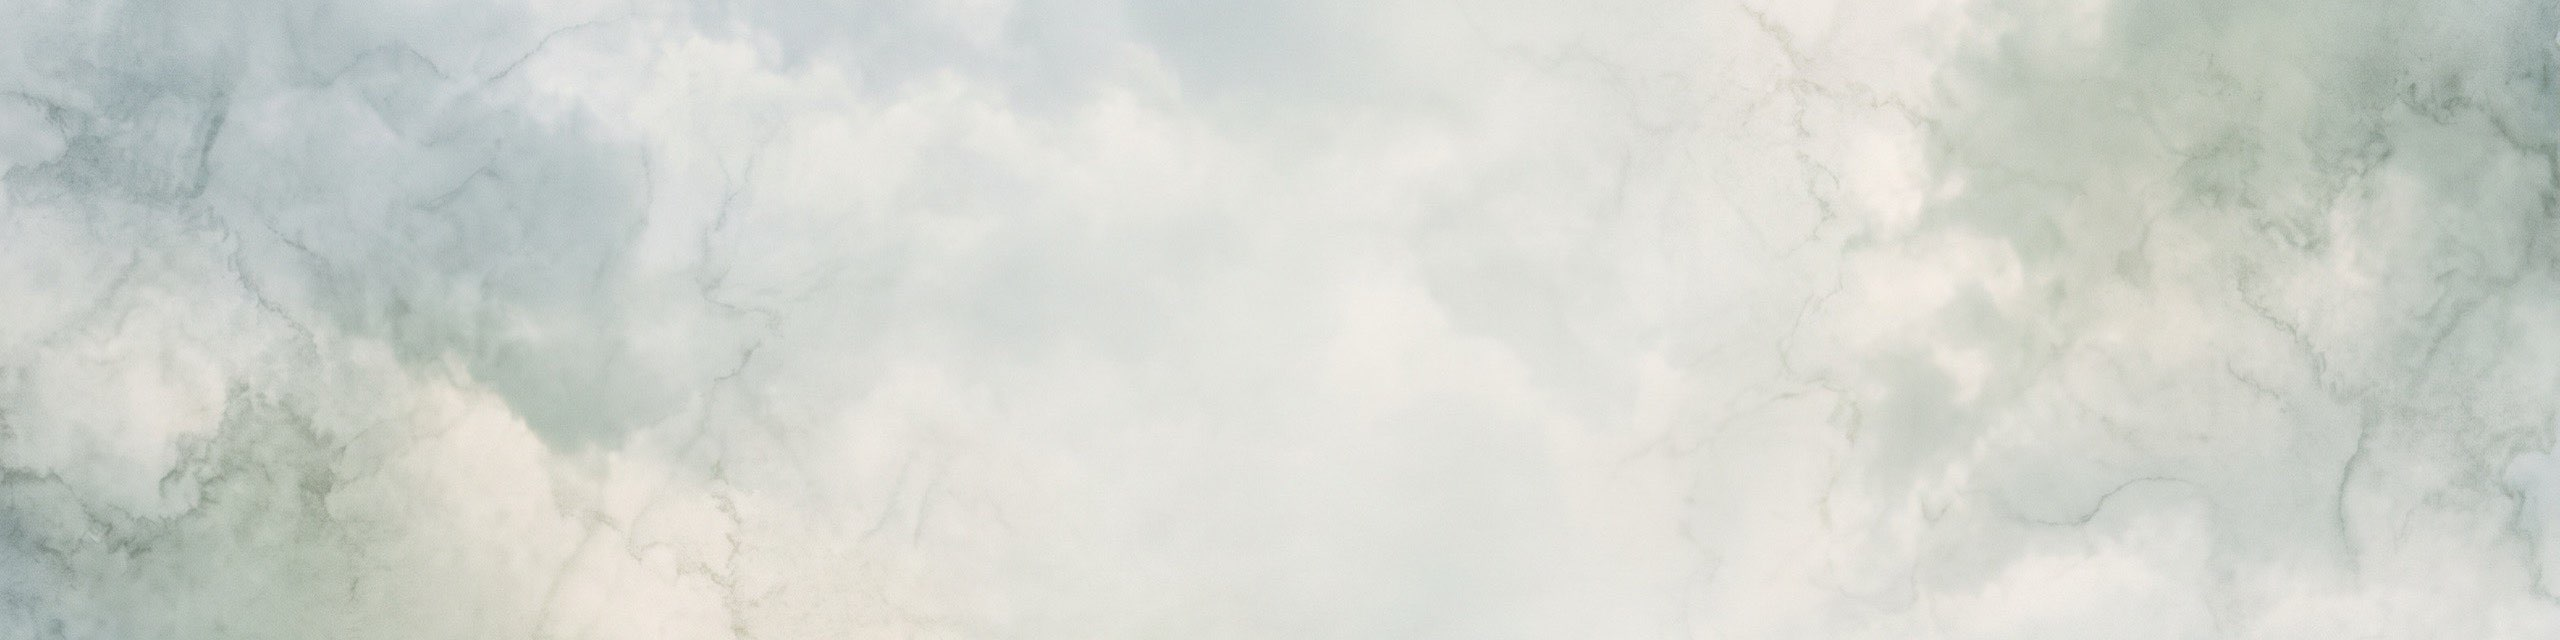
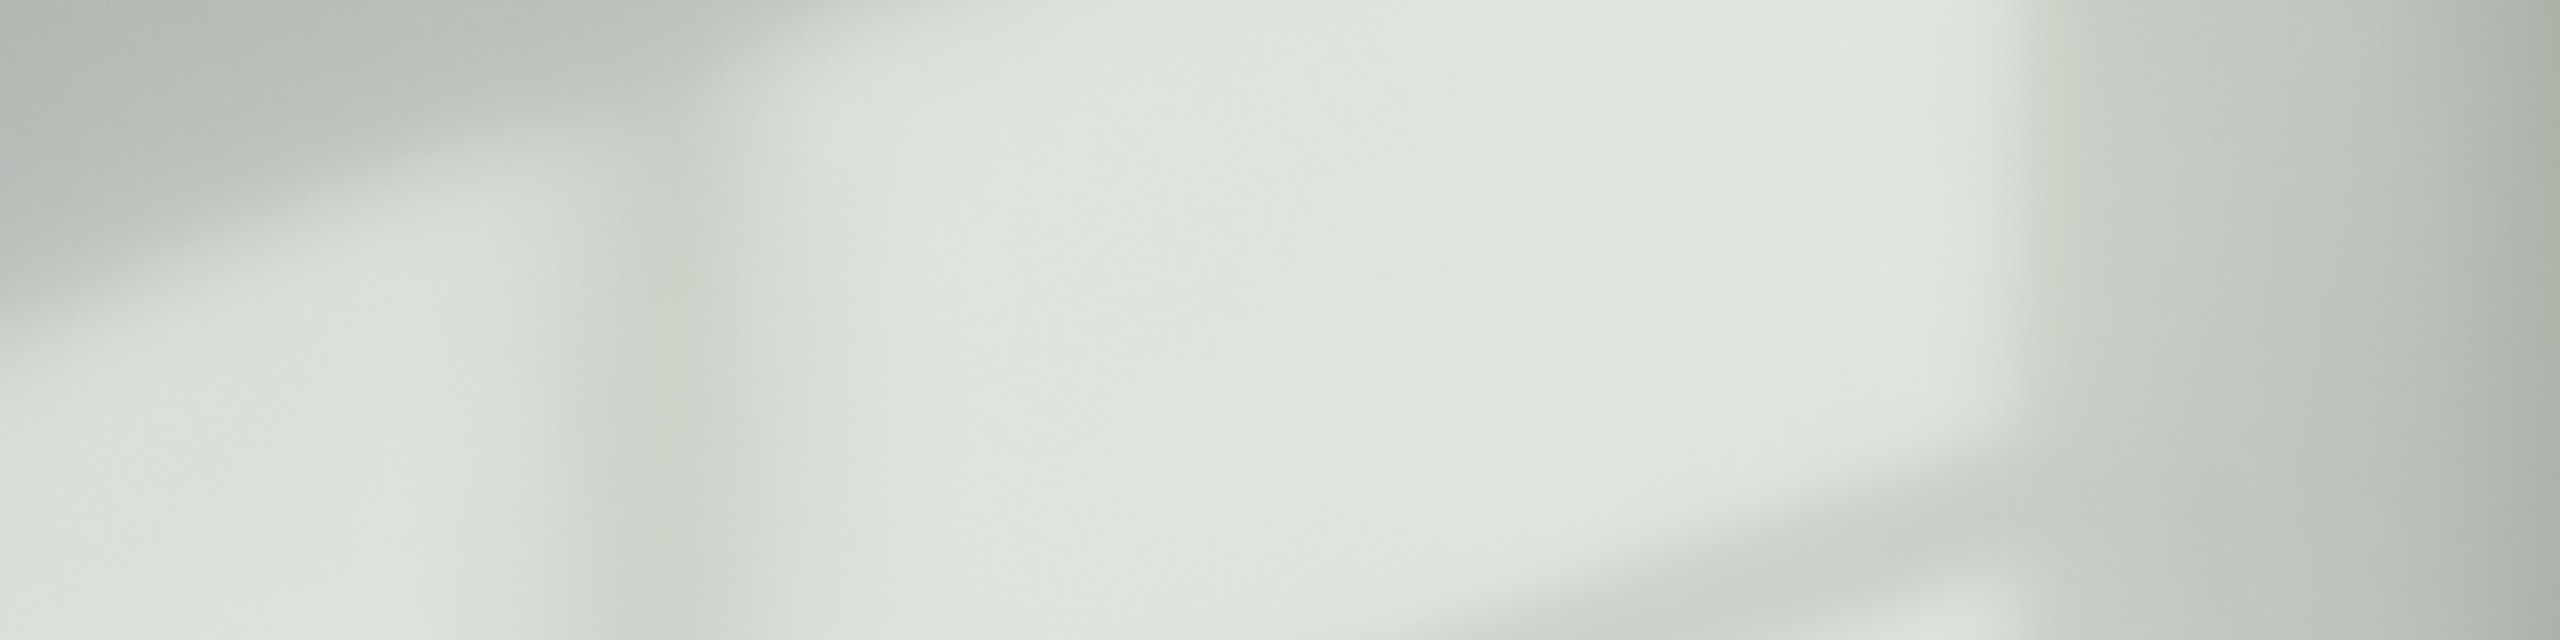
Cambiar el fondo de las manchetas por una imagen mas simple
El cliente pide un fondo mas sencillo para las bandas de titulo de
articulos/, sobre/ y contacto/. Entra una imagen generada con IA: gris
verdoso palido con franjas diagonales de luz desenfocadas.

Se SOBRESCRIBE img/fondo-paginas.jpg en vez de estrenar nombre. El
nombre describe el papel -el fondo de las paginas- y no el dibujo, asi
que sigue siendo exacto; el CSS no se toca y no queda ningun archivo
huerfano. El precio: un grep del nombre ya no dice que imagen hay dentro.

2560x640, 45,9 KB (antes 130,7: un 65% menos). Preparada con sips,
recorte ANTES de reducir; el original era 3168x1344, asi que solo hubo
que elegir la franja, con --cropOffset porque sips -c recorta centrado.

El desplazamiento 240 esta medido: deja el tercio central -donde cae el
titulo- en 0,712 de luminancia frente a 0,61 de las demas franjas.
Calidad 65: el bloqueo 8x8 es de medio nivel sobre 255 en todas las
calidades probadas, y 65 es el codo de la curva.

Contraste del h1, muestreado sobre el recorte ya pintado:

  375    768    901   1440   1920
16,67  16,67  12,69  12,69  12,69

A 375 y 768 NO hay imagen: el fondo se declara en min-width 901, asi
que ahi el titulo cae sobre blanco. Con titulos forzados de 1200 px no
baja de 10,64, frente a 6,61 de la imagen anterior.

No se toca la portada, que usa un <video> con poster propio.

diff --git a/css/styles.css b/css/styles.css
@@ -1234,30 +1234,42 @@ body:has(.portada--video) .cabecera--con-linea {
    titular se quedaba en 1,68:1. Con el titulo centrado cae sobre la zona clara
    del centro y no hace falta velo ninguno.
 
-   ⚠ LA IMAGEN CAMBIO: era `fondo-cabecera.jpg` y ahora es `fondo-paginas.jpg`,
-   recortada a 4:1 exacto (2560x640) para esta banda. Misma familia visual que
-   el veteado de la portada, pero sin libro ni balanza.
+   ⚠ EL ARCHIVO SE LLAMA IGUAL DESDE HACE DOS IMAGENES, ASI QUE EL NOMBRE NO
+   DICE QUE HAY DENTRO. Hoy `fondo-paginas.jpg` es un gris verdoso palido con
+   franjas diagonales de luz desenfocadas, generado con IA; antes contenia el
+   recorte del veteado de la portada, y antes de eso la banda usaba otro archivo,
+   `fondo-cabecera.jpg`, que se borro al quedarse sin uso.
 
-   `center` NO SE TOCO, y no por inercia: se midieron cinco posiciones
-   verticales y las cinco dan entre 11,6 y 12,4:1, porque el titulo cae sobre el
-   centro claro pase lo que pase. Mover la Y no mejora nada.
+   Se sobrescribe en vez de estrenar nombre para no dejar huerfano el anterior
+   —este repositorio ya ha pagado dos limpiezas por eso— y porque el nombre
+   describe el PAPEL, no el dibujo. Esta razonado en CLAUDE.md, con el comando
+   de sips y el porque del desplazamiento del recorte.
 
-   Contraste del h1 (--tinta sobre el pixel mas oscuro bajo su caja):
+   `center` NO SE TOCO: el recorte ya se eligio para que la zona central fuera
+   la mas limpia, asi que mover la Y solo puede empeorarlo.
 
-     ancho de ventana   1280     1440
-     peor ratio        11,84    11,93
+   Contraste del h1 (--tinta sobre el pixel mas oscuro bajo su caja), medido
+   replicando `cover` en un canvas con la geometria real del elemento:
 
-   GUARDA, y con la imagen nueva es mucho mas holgada que antes. Medido a 1440
-   forzando titulos cada vez mas anchos:
+     ancho de ventana   375    768    901   1440   1920
+     peor ratio       16,67  16,67  12,69  12,69  12,69
+
+   ⚠ A 375 Y 768 NO HAY IMAGEN —la media query de abajo empieza en 901— asi que
+   esos 16,67 son el h1 sobre el blanco de la pagina, no sobre la foto. Y de 901
+   para arriba el numero no se mueve porque `cover` escala por el ancho en toda
+   esa franja: lo que cambia es cuanta imagen se ve a los lados, no lo que queda
+   detras del texto.
+
+   GUARDA. Medido forzando titulos cada vez mas anchos:
 
      titulo    160    450    600    800   1000   1200 px
-     nuevo   11,81  10,79   8,15   8,15   6,61   6,61
-     viejo   14,64  12,88  12,88  12,00   5,56   2,45  <- incumplia a 1200
+     hoy     12,69  12,57  12,34  11,42  10,64  10,64
+     antes   11,81  10,79   8,15   8,15   6,61   6,61
 
-   O sea que el corte de 450 px que documentaba la imagen anterior ya no
-   aplica: esta no baja de 6,61 ni con un titulo de 1200 px, que es mas ancho
-   que cualquier rotulo imaginable. Aun asi, si algun dia se cambia la imagen
-   hay que volver a medir esta tabla. */
+   No baja de 10,64 ni con un titulo de 1200 px, mas ancho que cualquier rotulo
+   imaginable, y pierde solo 2 puntos de extremo a extremo donde la anterior
+   perdia 5. Aun asi, si algun dia se cambia la imagen hay que volver a medir
+   esta tabla: el numero sale de muestrear, no de mirar. */
 
 @media (min-width: 901px) {
   .mancheta {

diff --git a/CLAUDE.md b/CLAUDE.md
@@ -3400,18 +3400,95 @@ fondo y **sin velo**. Abre las tres páginas de sección —`articulos/`, `sobre
 el título se queda en la rejilla de 1200 gracias al `.contenedor` que lleva
 dentro.
 
-> ⚠ **LA IMAGEN CAMBIÓ: ERA `img/fondo-cabecera.jpg`.** La nueva está recortada
-> a **4:1 exacto (2560 × 640)** para esta banda, frente al 4,03 de la anterior,
-> y es el mismo veteado de la portada **sin libro ni balanza**.
+> ⚠ **EL ARCHIVO SE LLAMA IGUAL PERO LA FOTO ES OTRA, Y ESA ES LA TRAMPA DE
+> ESTE CAMBIO.** `img/fondo-paginas.jpg` se **sobrescribió** con una imagen nueva
+> generada con IA: un gris verdoso pálido con franjas diagonales de luz
+> desenfocadas, mucho más simple que el veteado anterior.
 >
-> ✅ **`fondo-cabecera.jpg` se quedó sin uso y YA SE HA BORRADO** en la limpieza
-> del lote. Aquí decía «NO se ha borrado». Esta banda era su único portador, y
-> hoy el nombre solo aparece en prosa: en el comentario de `styles.css` que
-> explica el cambio y en la tabla de contraste de más abajo.
+> **Se sobrescribe en vez de añadir un nombre nuevo, y es deliberado:**
+>
+> | | Sobrescribir | Nombre nuevo |
+> |---|---|---|
+> | CSS | no se toca | hay que editarlo |
+> | Archivos huérfanos | **ninguno** | uno más |
+> | Qué enseña el diff | que la imagen cambió | que hay dos imágenes |
+>
+> El nombre describe **el papel** —«el fondo de las páginas»— y no el dibujo, así
+> que sigue siendo exacto. Y el repositorio ya ha pagado dos veces el precio de
+> acumular imágenes sin uso: `fondo-cabecera.jpg` y `juanconteramiranda.jpeg`
+> necesitaron una limpieza dedicada. Añadir una tercera por no sobrescribir
+> repite justo el error que esa limpieza arregló.
+>
+> **Consecuencia que hay que tener presente:** un `grep` del nombre no dice qué
+> imagen hay. Para saberlo hay que mirar el archivo o esta sección.
+>
+> **Antes de esta, el archivo contuvo el recorte del veteado de la portada**, y
+> antes de eso la banda usaba `img/fondo-cabecera.jpg`, que se borró al quedarse
+> sin uso.
+
+> **Cómo se preparó, y el orden importa.** El original es
+> `Gemini_Generated_Image_vvrrjvvrrjvvrrjv.jpeg`, **3168 × 1344** y 1,6 MB. Para
+> 4:1 usando el ancho entero hace falta una franja de 792 px de alto, y **cuál**
+> de las muchas posibles se elige es la única decisión de diseño que hay aquí:
 >
 > ```sh
-> grep -rn 'fondo-cabecera' --include='*.css' --include='*.html' .
+> # recorte ANTES de reducir, con desplazamiento: la franja y=240..1032
+> sips -c 792 3168 --cropOffset 240 0 original.jpeg --out base.jpg
+> sips -Z 2560 -s format jpeg -s formatOptions 65 base.jpg --out img/fondo-paginas.jpg
 > ```
+>
+> ⚠ **`--cropOffset` no es opcional.** `sips -c` recorta **centrado**, y el
+> recorte centrado (y=276) no es el que se quiere. Hace falta elegir la Y.
+>
+> **El 240 está medido, no elegido a ojo.** El original tiene una sombra fuerte
+> arriba a la izquierda y una banda oscura en el borde derecho; entre medias hay
+> una meseta clara. Barriendo los desplazamientos posibles y midiendo la
+> luminancia del **tercio central**, que es donde cae el título:
+>
+> | Desplazamiento | Tercio izquierdo | **Tercio central** | Tercio derecho |
+> |---|---|---|---|
+> | **240** | 0,488 | **0,712** | 0,427 |
+> | 384 | 0,541 | 0,621 | 0,427 |
+> | 480 | 0,615 | 0,612 | 0,426 |
+> | 528 | 0,614 | 0,607 | 0,426 |
+>
+> El 240 deja el centro **mucho más claro** que cualquier otro —0,712 contra
+> 0,61— al precio de un tercio izquierdo algo más oscuro, que es donde no hay
+> texto. Los demás se parecen entre sí porque a partir de 384 la meseta ya ha
+> quedado arriba del recorte.
+
+> **La calidad 65 también está medida, y la métrica obvia engaña.** En una imagen
+> tan lisa el riesgo no es perder detalle sino el **bloqueo 8 × 8** del JPEG, que
+> en una superficie plana se ve como bandas. Contar «saltos bruscos» da el
+> resultado al revés —sube con la calidad, porque conserva el grano del
+> original—; lo que sirve es comparar el salto en los bordes de bloque contra el
+> de dentro:
+>
+> | Calidad | Peso | Bloqueo a 2560 (nativo) | Salto absoluto | Ya escalada a 1440 |
+> |---|---|---|---|---|
+> | 55 | 35,6 KB | 7,08× | 0,38/255 | 0,15/255 |
+> | 60 | 36,0 KB | 6,46× | 0,39/255 | 0,16/255 |
+> | **65** | **45,9 KB** | **3,93×** | **0,48/255** | **0,24/255** |
+> | 70 | 64,8 KB | 2,89× | 0,54/255 | 0,32/255 |
+> | 75 | 74,0 KB | 2,23× | 0,62/255 | 0,39/255 |
+>
+> ⚠ **El ratio de bloqueo asusta más de lo que debe**: el salto absoluto es de
+> medio nivel sobre 255 en todos los casos, o sea invisible. Lo que lo infla es
+> que el gradiente *dentro* del bloque es casi cero, no que el borde se vea.
+>
+> Y **al escalar se suaviza**: a 1440 la imagen se dibuja al 0,5625 y promedia
+> los bloques. Medida la diferencia entre q55 y q75 ya escaladas: **máximo 5/255**,
+> media 0,39/255. O sea que cualquiera valdría; 65 se elige porque es el codo de
+> la curva y porque **en pantalla densa no hay reducción que suavice** —ahí los
+> 2560 px se dibujan casi 1:1—.
+>
+> **Pesa 45,9 KB frente a los 130,7 de la imagen anterior**, un 65 % menos.
+
+> ⚠ **EL ORIGINAL NO ESTÁ EN EL REPOSITORIO, y sin él no se puede rehacer el
+> recorte.** Es el único insumo del sitio del que no se guarda la fuente —el logo
+> sí la tiene, en `img/logo_elderechoescrito.jpeg`—. Mientras no se guarde, lo
+> único que permite reproducir esta imagen es el comando de arriba **más el
+> archivo original**, que vive fuera del proyecto.
 
 > ⚠ **SE DESCARTÓ USAR EL FONDO DE LA PORTADA TAL CUAL, y conviene saber por
 > qué antes de volver a intentarlo.** El de la portada no es una imagen de CSS:
@@ -3434,17 +3511,30 @@ falta un velo blanco al 45 % para salvarlo, y aun así lavaba la imagen.
 Con el título **centrado**, cae sobre la franja clara del medio y no hace falta
 velo ninguno. El velo se retiró: protegía a un texto que ya no está ahí.
 
-Medido sobre la imagen de hoy, el píxel más oscuro bajo la caja del `h1`:
+Medido sobre la imagen de hoy, el píxel más oscuro bajo la caja del `h1`,
+muestreando el recorte **ya pintado** —se replica `cover` en un `<canvas>` con la
+geometría real del elemento y se leen los píxeles de la caja del título—:
 
-| Ancho de ventana | 1280 | 1440 |
-|---|---|---|
-| Peor contraste | **11,84:1** | **11,93:1** |
+| Ancho de ventana | 375 | 768 | **901** | **1440** | 1920 |
+|---|---|---|---|---|---|
+| ¿Hay imagen? | **no** | **no** | sí | sí | sí |
+| Peor contraste | 16,67:1 | 16,67:1 | **12,69:1** | **12,69:1** | 12,69:1 |
 
-> **`background-position` sigue en `center`, y no por inercia.** Se midieron
-> cinco posiciones verticales —0, 25, 50, 75 y 100 %— y las cinco dan entre
-> **11,6 y 12,4:1**, porque el título cae sobre el centro claro pase lo que
-> pase. Mover la Y no mejora nada, así que el cambio se queda en el nombre del
-> archivo.
+> ⚠ **A 768 Y 375 NO HAY IMAGEN, Y ESO SORPRENDE AL MEDIR.** El fondo se declara
+> dentro de `@media (min-width: 901px)` —está razonado en `styles.css`: por
+> debajo no se pide el archivo y además `cover` recortaría una tira inútil—, así
+> que ahí el `h1` cae sobre el blanco de la página y da **16,67:1**. Quien mida
+> el contraste en móvil no está midiendo esta imagen.
+>
+> **Por encima de 901 el número no se mueve**, y tiene explicación: `cover`
+> escala por el ancho en toda esa franja, así que el título siempre cae sobre el
+> mismo punto del archivo. Lo que cambia con la ventana es cuánta imagen se ve a
+> los lados, no lo que hay detrás del texto.
+
+> **`background-position` sigue en `center`.** Con la imagen anterior se midieron
+> cinco posiciones verticales y las cinco daban entre 11,6 y 12,4:1; con esta, el
+> recorte ya se eligió para que el centro fuera la zona más limpia, así que mover
+> la Y solo puede empeorarlo.
 
 Una media de luminancia habría dicho las dos veces que no hacía falta velo,
 porque la imagen es clara *de media*. **Lo que sirve es muestrear el recorte
@@ -3456,20 +3546,26 @@ con la proporción de la caja.
 > 600 y 2,86 a 800, que ya no cumplía**. Y se avisaba de que `sobre/` estuvo a
 > 32 px del límite cuando se titulaba «Sobre El Derecho Escrito» (417,8 px).
 >
-> Medido a 1440 forzando títulos cada vez más anchos:
+> Medido forzando títulos cada vez más anchos. La columna de la derecha es la
+> **imagen de hoy**, remedida; las otras dos se conservan para ver la deriva:
 >
-> | Ancho del título | `fondo-cabecera` | **`fondo-paginas`** |
-> |---|---|---|
-> | 160 px | 14,64 | **11,81** |
-> | 450 px | 12,88 | **10,79** |
-> | 600 px | 12,88 | **8,15** |
-> | 800 px | 12,00 | **8,15** |
-> | 1000 px | 5,56 | **6,61** |
-> | 1200 px | **2,45** ✗ | **6,61** |
+> | Ancho del título | `fondo-cabecera` | veteado anterior | **la de hoy** |
+> |---|---|---|---|
+> | 160 px (el real) | 14,64 | 11,81 | **12,69** |
+> | 450 px | 12,88 | 10,79 | **12,57** |
+> | 600 px | 12,88 | 8,15 | **12,34** |
+> | 800 px | 12,00 | 8,15 | **11,42** |
+> | 1000 px | 5,56 | 6,61 | **10,64** |
+> | 1200 px | **2,45** ✗ | 6,61 | **10,64** |
 >
-> La nueva **no baja de 6,61 ni con un título de 1200 px**, más ancho que
-> cualquier rótulo imaginable. Así que el corte de 450 decae y `sobre/` ya no
-> está al borde de nada.
+> **La de hoy no baja de 10,64 ni con un título de 1200 px**, más ancho que
+> cualquier rótulo imaginable, y es la más plana de las tres: pierde 2 puntos de
+> extremo a extremo donde la anterior perdía 5 y la primera 12. Es lo que se
+> esperaba de una imagen sin motivo, y de haber elegido el recorte por la
+> limpieza del centro.
+>
+> Así que el corte de 450 px sigue sin aplicar y `sobre/` no está al borde de
+> nada aunque recupere un título largo.
 >
 > **Lo que no decae es el método**: si algún día se cambia la imagen, hay que
 > volver a medir esta tabla. El número sale de muestrear, no de mirar.
